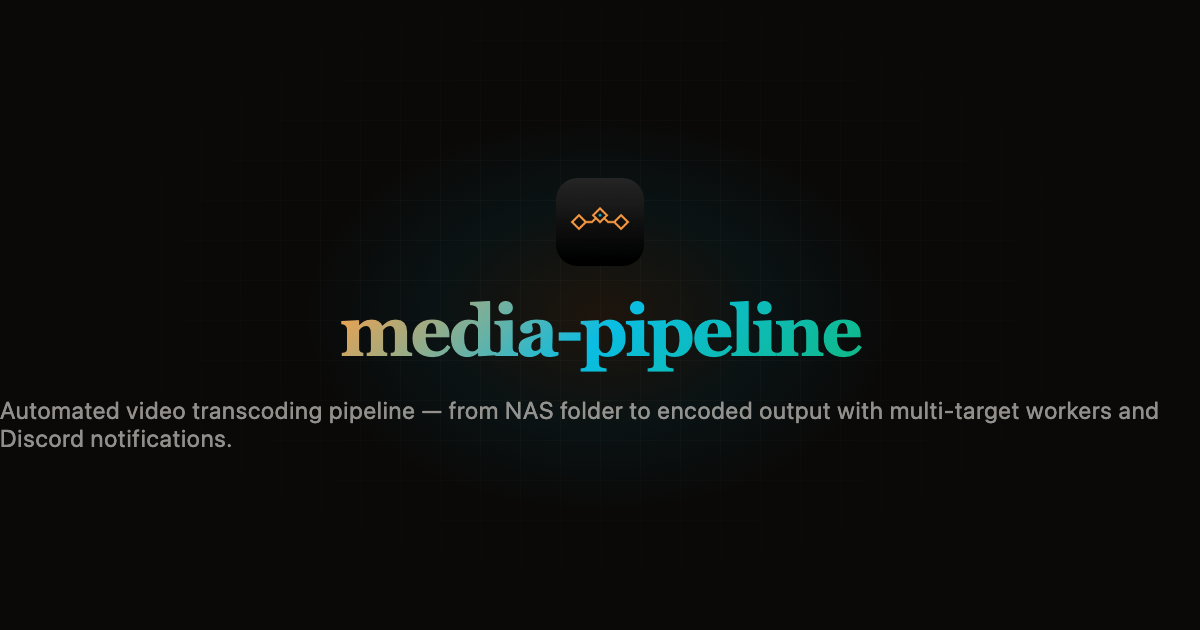
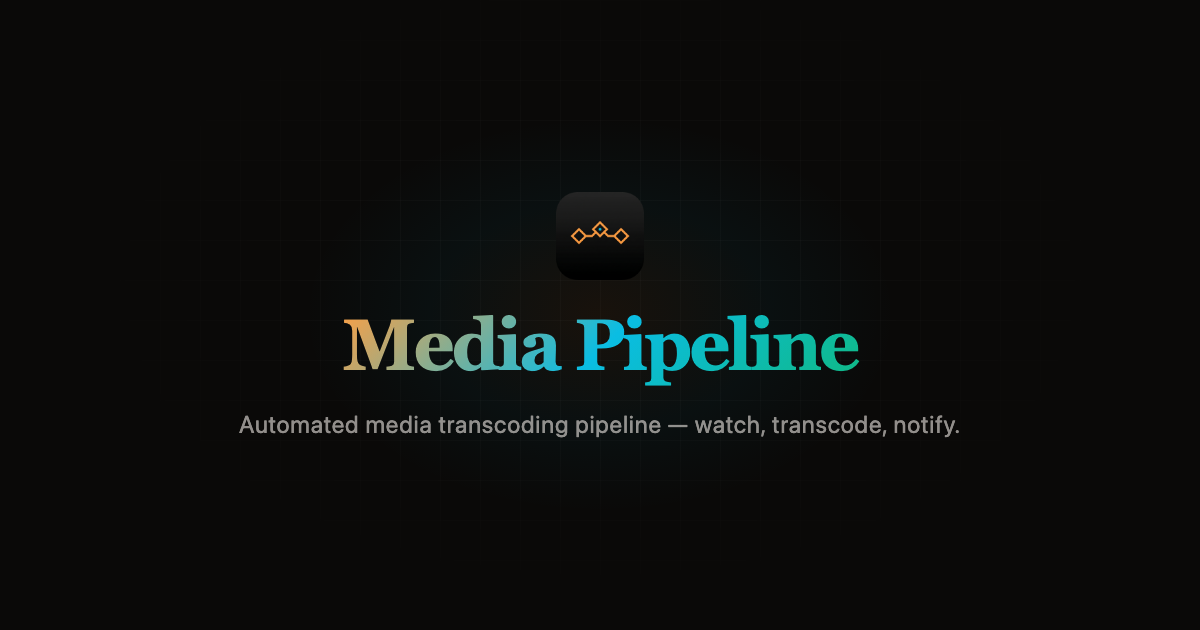
fix: rebuild site with correct colors, features, quick start, and story

Changed region(s): [[0.0, 0.4825, 0.9867, 0.7238], [0.4625, 0.3317, 0.5242, 0.3921], [0.4625, 0.2714, 0.5242, 0.3016]]

diff --git a/docs/index.html b/docs/index.html
@@ -4,19 +4,23 @@
 <meta charset="UTF-8">
 <link rel="preconnect" href="https://fonts.googleapis.com">
 <link rel="preconnect" href="https://fonts.gstatic.com" crossorigin>
-<link href="https://fonts.googleapis.com/css2?family=DM+Sans:wght@400;500;600;700&family=DM+Serif+Display&family=JetBrains+Mono:wght@400;500&display=swap" rel="stylesheet">
+<link rel="preconnect" href="https://fonts.googleapis.com">
+<link rel="preconnect" href="https://fonts.gstatic.com" crossorigin>
+<link href="https://fonts.googleapis.com/css2?family=DM+Sans:ital,opsz,wght@0,9..40,100..1000;1,9..40,100..1000&family=DM+Serif+Display&family=JetBrains+Mono:ital,wght@0,100..800;1,100..800&display=swap" rel="stylesheet">
 <meta name="viewport" content="width=device-width, initial-scale=1.0">
-<title>media-pipeline</title>
-<meta name="description" content="Automated video transcoding pipeline — from NAS folder to encoded output with multi-target workers and Discord notifications.">
+<title>Media Pipeline</title>
+<meta name="description" content="Automated media transcoding pipeline — watch, transcode, notify.">
 <meta name="theme-color" content="#0a0908">
-<meta property="og:title" content="media-pipeline">
-<meta property="og:description" content="Automated video transcoding pipeline — from NAS folder to encoded output with multi-target workers and Discord notifications.">
+<meta property="og:title" content="Media Pipeline">
+<meta property="og:description" content="Automated media transcoding pipeline — watch, transcode, notify.">
 <meta property="og:type" content="website">
-<meta property="og:image" content="assets/logo.png">
+<meta property="og:image" content="assets/og-image.png">
+<meta property="og:image:width" content="1200">
+<meta property="og:image:height" content="630">
 <meta name="twitter:card" content="summary_large_image">
-<meta name="twitter:title" content="media-pipeline">
-<meta name="twitter:description" content="Automated video transcoding pipeline — from NAS folder to encoded output with multi-target workers and Discord notifications.">
-<meta name="twitter:image" content="assets/logo.png">
+<meta name="twitter:title" content="Media Pipeline">
+<meta name="twitter:description" content="Automated media transcoding pipeline — watch, transcode, notify.">
+<meta name="twitter:image" content="assets/og-image.png">
 <link rel="icon" type="image/png" href="assets/logo.png">
 
 <script src="https://cdn.tailwindcss.com"></script>
@@ -83,7 +87,7 @@ tailwind.config = {
 
   /* Typography */
   --font-display: "DM Serif Display", Georgia, serif;
-  --font-body: "DM Sans", system-ui, sans-serif;
+  --font-body: "DM Sans", system-ui, -apple-system, sans-serif;
   --font-mono: "JetBrains Mono", "SF Mono", Consolas, monospace;
 
   /* Light theme */
@@ -180,8 +184,8 @@ a:active, button:active { transform: scale(0.97); transition: transform 0.1s eas
   opacity: var(--grid-opacity);
 }
 
-.radial-1 { background: radial-gradient(ellipse 80% 60% at 20% 0%, rgba(255,159,67,0.08) 0%, transparent 60%); opacity: 0.5; }
-.radial-2 { background: radial-gradient(ellipse 60% 50% at 85% 100%, rgba(10,189,227,0.05) 0%, transparent 60%); opacity: 0.5; }
+.radial-1 { background: radial-gradient(ellipse 80% 60% at 20% 0%, rgba(255,159,67,0.06) 0%, transparent 60%); opacity: 0.5; }
+.radial-2 { background: radial-gradient(ellipse 60% 50% at 85% 100%, rgba(10,189,227,0.04) 0%, transparent 60%); opacity: 0.5; }
 
 #back-to-top {
   position: fixed; bottom: 32px; right: 32px; z-index: 50;
@@ -232,7 +236,7 @@ a:active, button:active { transform: scale(0.97); transition: transform 0.1s eas
       <div class="text-text group-hover:scale-110 transition-transform duration-300 drop-shadow-md">
         <img src="assets/logo.png" alt="Logo" class="w-10 h-10 rounded-lg">
       </div>
-      <span class="font-bold text-[16px] whitespace-nowrap text-text group-hover:text-transparent group-hover:bg-clip-text group-hover:bg-gradient-to-r group-hover:from-primary group-hover:to-accent transition-all">media-pipeline</span>
+      <span class="font-bold text-[16px] whitespace-nowrap text-text group-hover:text-transparent group-hover:bg-clip-text group-hover:bg-gradient-to-r group-hover:from-primary group-hover:to-accent transition-all">Media Pipeline</span>
     </a>
 
     <div class="flex items-center gap-3 flex-shrink-0">
@@ -269,11 +273,11 @@ a:active, button:active { transform: scale(0.97); transition: transform 0.1s eas
       </div>
 
       <h1 class="headline text-5xl md:text-7xl lg:text-8xl font-extrabold leading-[1.15] mb-8 max-w-4xl text-gradient">
-        media-pipeline
+        Media Pipeline
       </h1>
 
       <p class="text-muted text-lg md:text-xl max-w-2xl leading-relaxed mb-12 font-medium">
-        Automated video transcoding pipeline — from NAS folder to encoded output with multi-target workers and Discord notifications.
+        Automated media transcoding pipeline — watch, transcode, notify.
       </p>
 
       <div class="flex flex-col sm:flex-row gap-4 mb-16 w-full sm:w-auto">
@@ -293,7 +297,7 @@ a:active, button:active { transform: scale(0.97); transition: transform 0.1s eas
             <svg class="w-5 h-5" viewBox="0 0 24 24" fill="none" stroke="currentColor" stroke-width="1.5"><path d="M11.049 2.927c.3-.921 1.603-.921 1.902 0l1.519 4.674a1 1 0 00.95.69h4.915c.969 0 1.371 1.24.588 1.81l-3.976 2.888a1 1 0 00-.363 1.118l1.518 4.674c.3.922-.755 1.688-1.538 1.118l-3.976-2.888a1 1 0 00-1.176 0l-3.976 2.888c-.783.57-1.838-.197-1.538-1.118l1.518-4.674a1 1 0 00-.363-1.118l-3.976-2.888c-.784-.57-.38-1.81.588-1.81h4.914a1 1 0 00.951-.69l1.519-4.674z"/></svg>
           </div>
           <div class="min-w-0">
-            <div class="text-sm"><span class="font-bold text-lg text-primary leading-tight">Bun + TypeScript</span> <span class="font-semibold text-text">Runtime</span></div>
+            <div class="text-sm"><span class="font-bold text-lg text-primary leading-tight">Worker Pool API</span> <span class="font-semibold text-text">Bun + TypeScript</span></div>
             <div class="text-[11px] text-muted mt-0.5 leading-tight"></div>
           </div>
         </div>
@@ -302,7 +306,7 @@ a:active, button:active { transform: scale(0.97); transition: transform 0.1s eas
             <svg class="w-5 h-5" viewBox="0 0 24 24" fill="none" stroke="currentColor" stroke-width="1.5"><path d="M11.049 2.927c.3-.921 1.603-.921 1.902 0l1.519 4.674a1 1 0 00.95.69h4.915c.969 0 1.371 1.24.588 1.81l-3.976 2.888a1 1 0 00-.363 1.118l1.518 4.674c.3.922-.755 1.688-1.538 1.118l-3.976-2.888a1 1 0 00-1.176 0l-3.976 2.888c-.783.57-1.838-.197-1.538-1.118l1.518-4.674a1 1 0 00-.363-1.118l-3.976-2.888c-.784-.57-.38-1.81.588-1.81h4.914a1 1 0 00.951-.69l1.519-4.674z"/></svg>
           </div>
           <div class="min-w-0">
-            <div class="text-sm"><span class="font-bold text-lg text-primary leading-tight">Mac + Cloud</span> <span class="font-semibold text-text">Workers</span></div>
+            <div class="text-sm"><span class="font-bold text-lg text-primary leading-tight">Dual Worker</span> <span class="font-semibold text-text">Mac + Cloud</span></div>
             <div class="text-[11px] text-muted mt-0.5 leading-tight"></div>
           </div>
         </div>
@@ -311,7 +315,7 @@ a:active, button:active { transform: scale(0.97); transition: transform 0.1s eas
             <svg class="w-5 h-5" viewBox="0 0 24 24" fill="none" stroke="currentColor" stroke-width="1.5"><path d="M11.049 2.927c.3-.921 1.603-.921 1.902 0l1.519 4.674a1 1 0 00.95.69h4.915c.969 0 1.371 1.24.588 1.81l-3.976 2.888a1 1 0 00-.363 1.118l1.518 4.674c.3.922-.755 1.688-1.538 1.118l-3.976-2.888a1 1 0 00-1.176 0l-3.976 2.888c-.783.57-1.838-.197-1.538-1.118l1.518-4.674a1 1 0 00-.363-1.118l-3.976-2.888c-.784-.57-.38-1.81.588-1.81h4.914a1 1 0 00.951-.69l1.519-4.674z"/></svg>
           </div>
           <div class="min-w-0">
-            <div class="text-sm"><span class="font-bold text-lg text-primary leading-tight">n8n</span> <span class="font-semibold text-text">Orchestrator</span></div>
+            <div class="text-sm"><span class="font-bold text-lg text-primary leading-tight">Orchestration</span> <span class="font-semibold text-text">n8n</span></div>
             <div class="text-[11px] text-muted mt-0.5 leading-tight"></div>
           </div>
         </div>
@@ -336,6 +340,35 @@ a:active, button:active { transform: scale(0.97); transition: transform 0.1s eas
 <!-- STORY — glass cards with connector dots                      -->
 <!-- ============================================================ -->
 
+<!-- @section story-horizontal -->
+<section class="py-[var(--section-py)] relative">
+  <div class="w-full max-w-container mx-auto px-6">
+    <div class="text-center max-w-container-sm mx-auto mb-20 reveal">
+      <h2 class="headline text-3xl md:text-5xl font-bold mb-6 tracking-tight">Project Evolution</h2>
+      <div class="text-muted text-lg leading-relaxed"><p class="text-muted">From idea to production pipeline.</p></div>
+    </div>
+    <div class="grid grid-cols-1 md:grid-cols-2 gap-6 max-w-4xl mx-auto relative">
+      <div class="hidden md:block absolute top-1/2 left-[20%] right-[20%] h-px bg-gradient-to-r from-transparent via-border to-transparent -translate-y-1/2 z-[-1]"></div>
+            <div class="reveal visible glass rounded-2xl p-6 flex flex-col" style="transition-delay:0.0s">
+        <div class="flex items-center gap-2 mb-4">
+          <span class="text-[10px] font-mono font-bold uppercase tracking-wider border border-secondary/40 text-secondary px-2 py-0.5 rounded-full">June 2026</span>
+          <span class="text-[10px] font-mono font-bold tracking-wider text-muted uppercase"></span>
+        </div>
+        <p class="text-sm text-muted leading-relaxed mb-4 flex-1">Initial commit — watcher, n8n workflow, and worker pool API with Mac SSH transcoding and Discord notifications.</p>
+        
+      </div>
+      <div class="reveal visible glass rounded-2xl p-6 flex flex-col" style="transition-delay:0.1s">
+        <div class="flex items-center gap-2 mb-4">
+          <span class="text-[10px] font-mono font-bold uppercase tracking-wider border border-primary/40 text-primary px-2 py-0.5 rounded-full">v1.0.0</span>
+          <span class="text-[10px] font-mono font-bold tracking-wider text-muted uppercase"></span>
+        </div>
+        <p class="text-sm text-muted leading-relaxed mb-4 flex-1">Release v1.0.0 with bilingual documentation, landing page, and portfolio polish.</p>
+        
+      </div>
+    </div>
+  </div>
+</section>
+<!-- /@section story-horizontal -->
 
 
 <!-- ============================================================ -->
@@ -346,8 +379,8 @@ a:active, button:active { transform: scale(0.97); transition: transform 0.1s eas
 <section class="py-[var(--section-py)] relative">
   <div class="w-full max-w-container mx-auto px-6">
     <div class="text-center max-w-container-sm mx-auto mb-20 reveal">
-      <h2 class="headline text-3xl md:text-5xl font-bold mb-6 tracking-tight">Features</h2>
-      <div class="text-muted text-lg leading-relaxed"></div>
+      <h2 class="headline text-3xl md:text-5xl font-bold mb-6 tracking-tight">What It Does</h2>
+      <div class="text-muted text-lg leading-relaxed"><p class="text-muted">End-to-end automated video transcoding from your NAS to encoded output.</p></div>
     </div>
     <div class="grid grid-cols-1 md:grid-cols-2 gap-6">
             <div class="reveal visible glass rounded-2xl p-8 flex flex-col gap-4" style="transition-delay:0.0s">
@@ -355,35 +388,35 @@ a:active, button:active { transform: scale(0.97); transition: transform 0.1s eas
           <svg class="w-5 h-5" viewBox="0 0 24 24" fill="none" stroke="currentColor" stroke-width="1.5"><path d="M11.049 2.927c.3-.921 1.603-.921 1.902 0l1.519 4.674a1 1 0 00.95.69h4.915c.969 0 1.371 1.24.588 1.81l-3.976 2.888a1 1 0 00-.363 1.118l1.518 4.674c.3.922-.755 1.688-1.538 1.118l-3.976-2.888a1 1 0 00-1.176 0l-3.976 2.888c-.783.57-1.838-.197-1.538-1.118l1.518-4.674a1 1 0 00-.363-1.118l-3.976-2.888c-.784-.57-.38-1.81.588-1.81h4.914a1 1 0 00.951-.69l1.519-4.674z"/></svg>
         </div>
         <h3 class="font-bold text-lg">Automatic Detection</h3>
-        <p class="text-muted text-sm leading-relaxed">Polls your NAS incoming folder every 30 seconds, deduplicates files by MD5 hash, and triggers the pipeline on new video files.</p>
+        <p class="text-muted text-sm leading-relaxed">Watches a NAS folder and detects new video files (mkv, avi, mp4) via polling, tracking already-seen files to avoid duplicates.</p>
       </div>
       <div class="reveal visible glass rounded-2xl p-8 flex flex-col gap-4" style="transition-delay:0.1s">
         <div class="w-10 h-10 rounded-xl bg-primary/10 text-primary flex items-center justify-center">
           <svg class="w-5 h-5" viewBox="0 0 24 24" fill="none" stroke="currentColor" stroke-width="1.5"><path d="M11.049 2.927c.3-.921 1.603-.921 1.902 0l1.519 4.674a1 1 0 00.95.69h4.915c.969 0 1.371 1.24.588 1.81l-3.976 2.888a1 1 0 00-.363 1.118l1.518 4.674c.3.922-.755 1.688-1.538 1.118l-3.976-2.888a1 1 0 00-1.176 0l-3.976 2.888c-.783.57-1.838-.197-1.538-1.118l1.518-4.674a1 1 0 00-.363-1.118l-3.976-2.888c-.784-.57-.38-1.81.588-1.81h4.914a1 1 0 00.951-.69l1.519-4.674z"/></svg>
         </div>
         <h3 class="font-bold text-lg">Smart Job Dispatch</h3>
-        <p class="text-muted text-sm leading-relaxed">REST API with SQLite-backed job queue. Creates, tracks, and retries transcode jobs with structured error handling.</p>
+        <p class="text-muted text-sm leading-relaxed">REST API receives transcode jobs from n8n, stores them in SQLite with idempotency tracking, and dispatches to the best available worker.</p>
       </div>
       <div class="reveal visible glass rounded-2xl p-8 flex flex-col gap-4" style="transition-delay:0.2s">
         <div class="w-10 h-10 rounded-xl bg-primary/10 text-primary flex items-center justify-center">
           <svg class="w-5 h-5" viewBox="0 0 24 24" fill="none" stroke="currentColor" stroke-width="1.5"><path d="M11.049 2.927c.3-.921 1.603-.921 1.902 0l1.519 4.674a1 1 0 00.95.69h4.915c.969 0 1.371 1.24.588 1.81l-3.976 2.888a1 1 0 00-.363 1.118l1.518 4.674c.3.922-.755 1.688-1.538 1.118l-3.976-2.888a1 1 0 00-1.176 0l-3.976 2.888c-.783.57-1.838-.197-1.538-1.118l1.518-4.674a1 1 0 00-.363-1.118l-3.976-2.888c-.784-.57-.38-1.81.588-1.81h4.914a1 1 0 00.951-.69l1.519-4.674z"/></svg>
         </div>
         <h3 class="font-bold text-lg">SSH Mac Worker</h3>
-        <p class="text-muted text-sm leading-relaxed">Dispatches ffmpeg transcoding to a local Apple Silicon Mac over SSH. x264 + AAC encoding with automatic retry on failure.</p>
+        <p class="text-muted text-sm leading-relaxed">Primary transcoding runs on your Mac via SSH + ffmpeg, with automatic retry logic for connection failures and stalled jobs.</p>
       </div>
       <div class="reveal visible glass rounded-2xl p-8 flex flex-col gap-4" style="transition-delay:0.3s">
         <div class="w-10 h-10 rounded-xl bg-primary/10 text-primary flex items-center justify-center">
           <svg class="w-5 h-5" viewBox="0 0 24 24" fill="none" stroke="currentColor" stroke-width="1.5"><path d="M11.049 2.927c.3-.921 1.603-.921 1.902 0l1.519 4.674a1 1 0 00.95.69h4.915c.969 0 1.371 1.24.588 1.81l-3.976 2.888a1 1 0 00-.363 1.118l1.518 4.674c.3.922-.755 1.688-1.538 1.118l-3.976-2.888a1 1 0 00-1.176 0l-3.976 2.888c-.783.57-1.838-.197-1.538-1.118l1.518-4.674a1 1 0 00-.363-1.118l-3.976-2.888c-.784-.57-.38-1.81.588-1.81h4.914a1 1 0 00.951-.69l1.519-4.674z"/></svg>
         </div>
         <h3 class="font-bold text-lg">Cloud Fallback</h3>
-        <p class="text-muted text-sm leading-relaxed">DigitalOcean droplet lifecycle management — create, poll progress, destroy. Ready to activate when the Mac is unreachable.</p>
+        <p class="text-muted text-sm leading-relaxed">When the Mac is offline, spins up DigitalOcean droplets from a snapshot for on-demand transcoding with cost estimation.</p>
       </div>
       <div class="reveal visible glass rounded-2xl p-8 flex flex-col gap-4" style="transition-delay:0.4s">
         <div class="w-10 h-10 rounded-xl bg-primary/10 text-primary flex items-center justify-center">
           <svg class="w-5 h-5" viewBox="0 0 24 24" fill="none" stroke="currentColor" stroke-width="1.5"><path d="M11.049 2.927c.3-.921 1.603-.921 1.902 0l1.519 4.674a1 1 0 00.95.69h4.915c.969 0 1.371 1.24.588 1.81l-3.976 2.888a1 1 0 00-.363 1.118l1.518 4.674c.3.922-.755 1.688-1.538 1.118l-3.976-2.888a1 1 0 00-1.176 0l-3.976 2.888c-.783.57-1.838-.197-1.538-1.118l1.518-4.674a1 1 0 00-.363-1.118l-3.976-2.888c-.784-.57-.38-1.81.588-1.81h4.914a1 1 0 00.951-.69l1.519-4.674z"/></svg>
         </div>
         <h3 class="font-bold text-lg">n8n Orchestration</h3>
-        <p class="text-muted text-sm leading-relaxed">Workflow automation with n8n: receives watcher webhooks, dispatches jobs, and sends Discord notifications on completion.</p>
+        <p class="text-muted text-sm leading-relaxed">Visual workflow automation connects the watcher to the worker pool and dispatches Discord notifications on job completion or failure.</p>
       </div>
     </div>
   </div>
@@ -404,7 +437,7 @@ a:active, button:active { transform: scale(0.97); transition: transform 0.1s eas
   <div class="w-full max-w-container mx-auto px-6">
     <div class="text-center max-w-container-sm mx-auto mb-16 reveal">
       <h2 class="headline text-3xl md:text-5xl font-bold mb-6 tracking-tight">Quick Start</h2>
-      <div class="text-muted text-lg"><p class="text-muted">Get up and running in under 60 seconds.</p></div>
+      <div class="text-muted text-lg"><p class="text-muted">Get up and running with a single Docker Compose command.</p></div>
     </div>
     <div class="grid grid-cols-1 lg:grid-cols-2 gap-8 items-start">
             <div class="reveal visible glass rounded-2xl overflow-hidden flex flex-col group" style="transition-delay:0.0s">
@@ -412,24 +445,36 @@ a:active, button:active { transform: scale(0.97); transition: transform 0.1s eas
           <div class="w-3 h-3 rounded-full bg-[#ff5f56]"></div>
           <div class="w-3 h-3 rounded-full bg-[#ffbd2e]"></div>
           <div class="w-3 h-3 rounded-full bg-[#27c93f]"></div>
-          <span class="text-[10px] text-muted ml-2 font-mono uppercase tracking-wider">Terminal</span>
-          <button class="ml-auto text-muted hover:text-primary transition-colors p-1 opacity-0 group-hover:opacity-100 group-focus-within:opacity-100" aria-label="Copy" data-copy="panel-0">
+          <span class="text-[10px] text-muted ml-2 font-mono uppercase tracking-wider">Setup</span>
+          <button class="ml-auto text-muted hover:text-primary transition-colors p-1 opacity-0 group-hover:opacity-100 group-focus-within:opacity-100" aria-label="Copy" data-copy="setup">
             <svg class="w-4 h-4" viewBox="0 0 24 24" fill="none" stroke="currentColor" stroke-width="2"><rect x="9" y="9" width="13" height="13" rx="2" ry="2"/><path d="M5 15H4a2 2 0 01-2-2V4a2 2 0 012-2h9a2 2 0 012 2v1"/></svg>
           </button>
         </div>
-        <pre id="code-panel-0" class="p-6 text-sm text-text leading-relaxed whitespace-pre-wrap overflow-x-hidden"></pre>
+        <pre id="code-setup" class="p-6 text-sm text-text leading-relaxed whitespace-pre-wrap overflow-x-hidden"><code class="text-accent">git clone https://github.com/Sofian-bll/media-pipeline.git</code>
+<code class="text-accent">cd media-pipeline</code>
+<span class="text-muted">configure your environment</span>
+<code class="text-secondary">cp .env.example .env</code>
+<span class="text-muted">start all services</span>
+<code class="text-primary">docker compose up -d</code></pre>
       </div>
       <div class="reveal visible glass rounded-2xl overflow-hidden flex flex-col group" style="transition-delay:0.1s">
         <div class="flex items-center gap-1.5 px-4 py-3 bg-surface border-b border-white/5 rounded-t-2xl">
           <div class="w-3 h-3 rounded-full bg-[#ff5f56]"></div>
           <div class="w-3 h-3 rounded-full bg-[#ffbd2e]"></div>
           <div class="w-3 h-3 rounded-full bg-[#27c93f]"></div>
-          <span class="text-[10px] text-muted ml-2 font-mono uppercase tracking-wider">Terminal</span>
-          <button class="ml-auto text-muted hover:text-primary transition-colors p-1 opacity-0 group-hover:opacity-100 group-focus-within:opacity-100" aria-label="Copy" data-copy="panel-1">
+          <span class="text-[10px] text-muted ml-2 font-mono uppercase tracking-wider">Environment</span>
+          <button class="ml-auto text-muted hover:text-primary transition-colors p-1 opacity-0 group-hover:opacity-100 group-focus-within:opacity-100" aria-label="Copy" data-copy="env">
             <svg class="w-4 h-4" viewBox="0 0 24 24" fill="none" stroke="currentColor" stroke-width="2"><rect x="9" y="9" width="13" height="13" rx="2" ry="2"/><path d="M5 15H4a2 2 0 01-2-2V4a2 2 0 012-2h9a2 2 0 012 2v1"/></svg>
           </button>
         </div>
-        <pre id="code-panel-1" class="p-6 text-sm text-text leading-relaxed whitespace-pre-wrap overflow-x-hidden"></pre>
+        <pre id="code-env" class="p-6 text-sm text-text leading-relaxed whitespace-pre-wrap overflow-x-hidden"><span class="text-muted">NAS mount path</span>
+<code class="text-accent">WATCH_DIR=/mnt/nas/incoming</code>
+<span class="text-muted">n8n webhook</span>
+<code class="text-secondary">N8N_WEBHOOK_URL=http://n8n:5678/webhook/watcher</code>
+<span class="text-muted">your Mac Tailscale IP</span>
+<code class="text-accent">MAC_SSH_HOST=100.66.240.74</code>
+<span class="text-muted">optional notifications</span>
+<code class="text-primary">DISCORD_WEBHOOK=https://discord.com/api/...</code></pre>
       </div>
     </div>
   </div>
@@ -467,27 +512,15 @@ a:active, button:active { transform: scale(0.97); transition: transform 0.1s eas
         </div>
         <div class="p-6 bg-[#09090b] dark:bg-transparent overflow-x-auto">
           <pre class="font-mono text-sm leading-loose text-gray-300">media-pipeline/
-├── .gitignore
-├── LICENSE
-├── README.fr.md
+├── watcher/         # Docker container — polls NAS for new files
+├── n8n/             # n8n workflow JSON — orchestration
+├── worker-pool/     # Bun/TypeScript API — job dispatch + transcoding
+├── scripts/         # Maintenance scripts (cleanup.sh)
+├── docs/            # Landing page + OG image
+├── docker-compose.yml
+├── .env.example
 ├── README.md
-├── docs/
-│   └── assets/
-├── n8n/
-│   └── n8n-media-pipeline-workflow.json
-├── scripts/
-│   └── cleanup.sh
-├── watcher/
-│   ├── Dockerfile
-│   ├── compose.yml
-│   └── scripts/
-└── worker-pool/
-    ├── Dockerfile
-    ├── bun.lock
-    ├── compose.yml
-    ├── package.json
-    ├── src/
-    └── tsconfig.json</pre>
+└── LICENSE</pre>
         </div>
       </div>
     </div>
@@ -506,12 +539,16 @@ a:active, button:active { transform: scale(0.97); transition: transform 0.1s eas
   <div class="w-full max-w-container mx-auto flex flex-col md:flex-row items-center justify-between gap-3">
     <div class="flex flex-col items-center md:items-start gap-1 text-xs text-muted">
       <div class="font-semibold text-text">
-        media-pipeline
+        Media Pipeline
       </div>
       <div>MIT License &copy; 2026 Sofian</div>
     </div>
     <div class="flex items-center gap-4 text-sm font-medium text-muted">
-      
+      <a href="https://www.typescriptlang.org/" target="_blank" rel="noopener"><img src="https://img.shields.io/badge/typescript-%23007ACC.svg?style=flat&logo=typescript&logoColor=white" alt="TypeScript" class="h-5"></a>
+        <a href="https://www.docker.com/" target="_blank" rel="noopener"><img src="https://img.shields.io/badge/docker-%230db7ed.svg?style=flat&logo=docker&logoColor=white" alt="Docker" class="h-5"></a>
+        <a href="https://www.gnu.org/software/bash/" target="_blank" rel="noopener"><img src="https://img.shields.io/badge/bash-%23121011.svg?style=flat&logo=gnu-bash&logoColor=white" alt="Bash" class="h-5"></a>
+        <a href="https://ffmpeg.org/" target="_blank" rel="noopener"><img src="https://img.shields.io/badge/ffmpeg-007808?style=flat&logo=ffmpeg&logoColor=white" alt="FFmpeg" class="h-5"></a>
+        <img src="https://img.shields.io/badge/sqlite-%2307405e.svg?style=flat&logo=sqlite&logoColor=white" alt="SQLite" class="h-5">
     </div>
   </div>
 </footer>